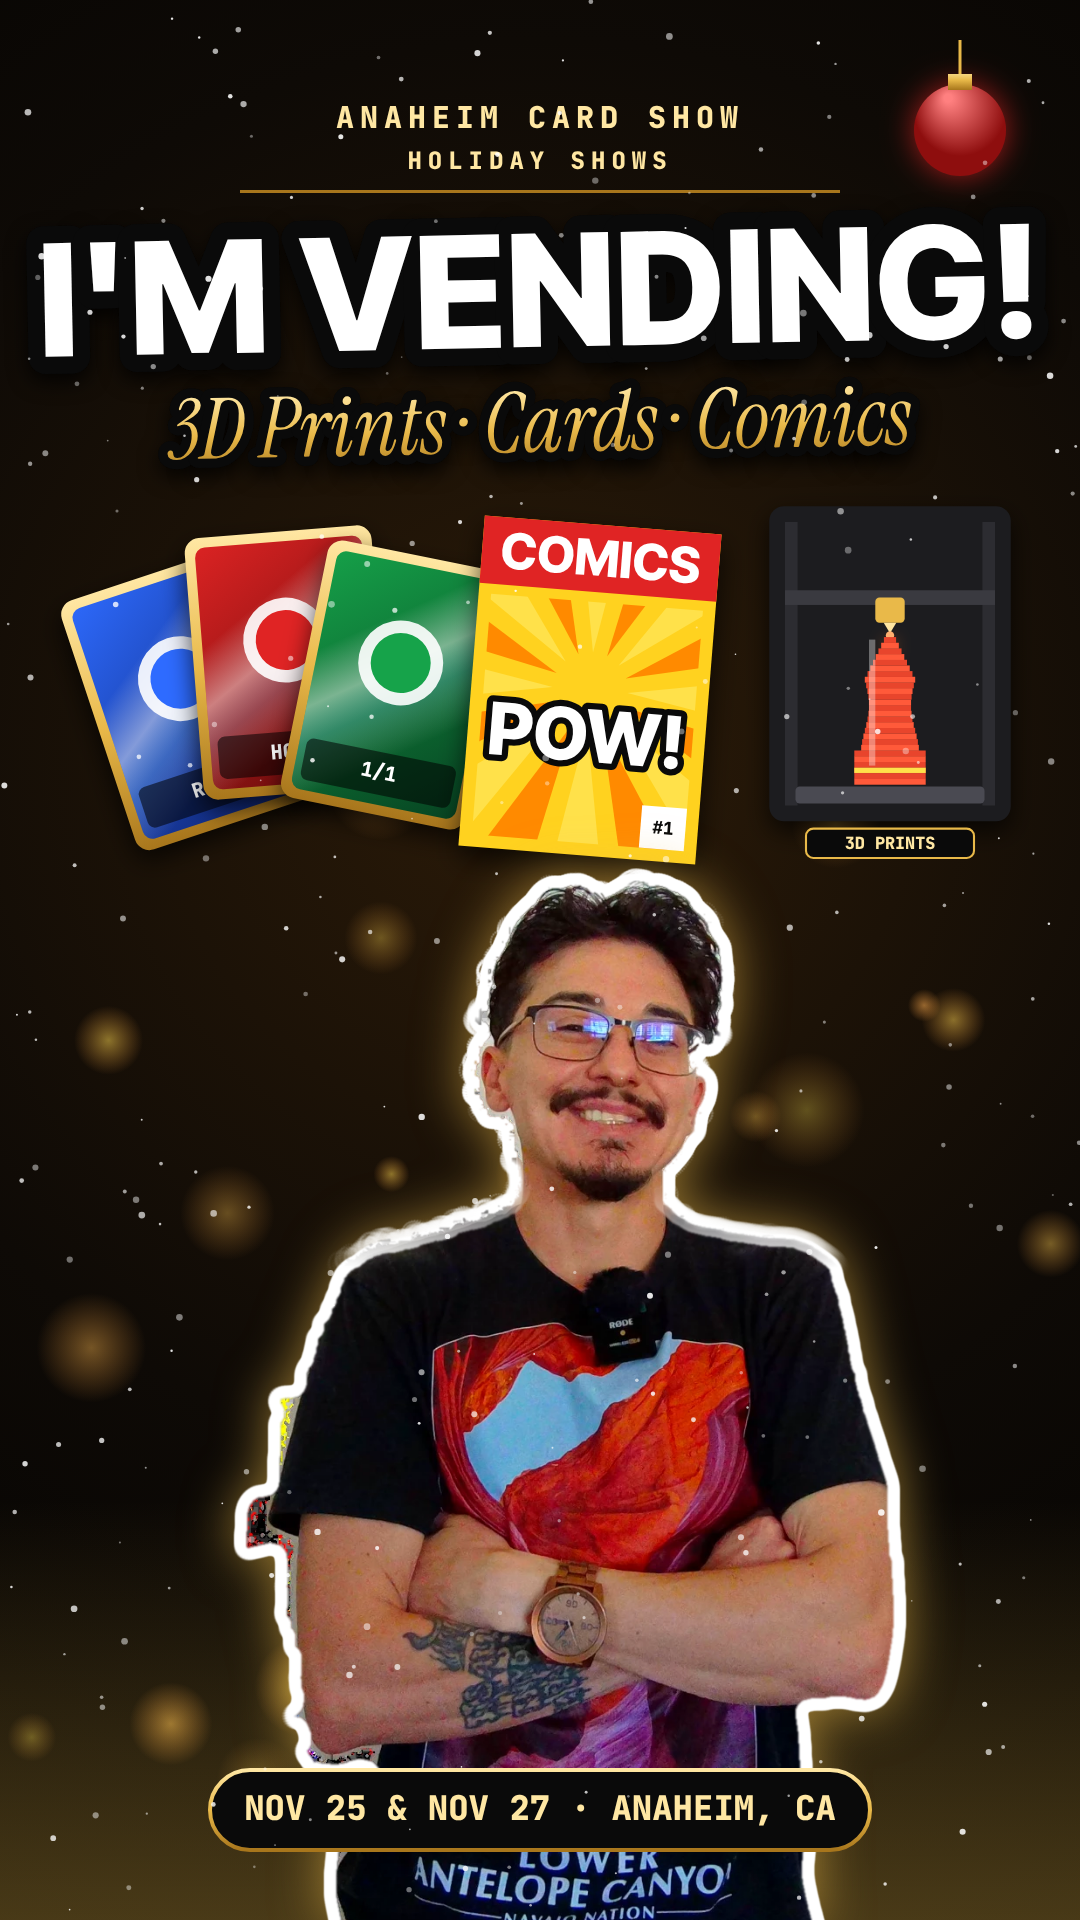
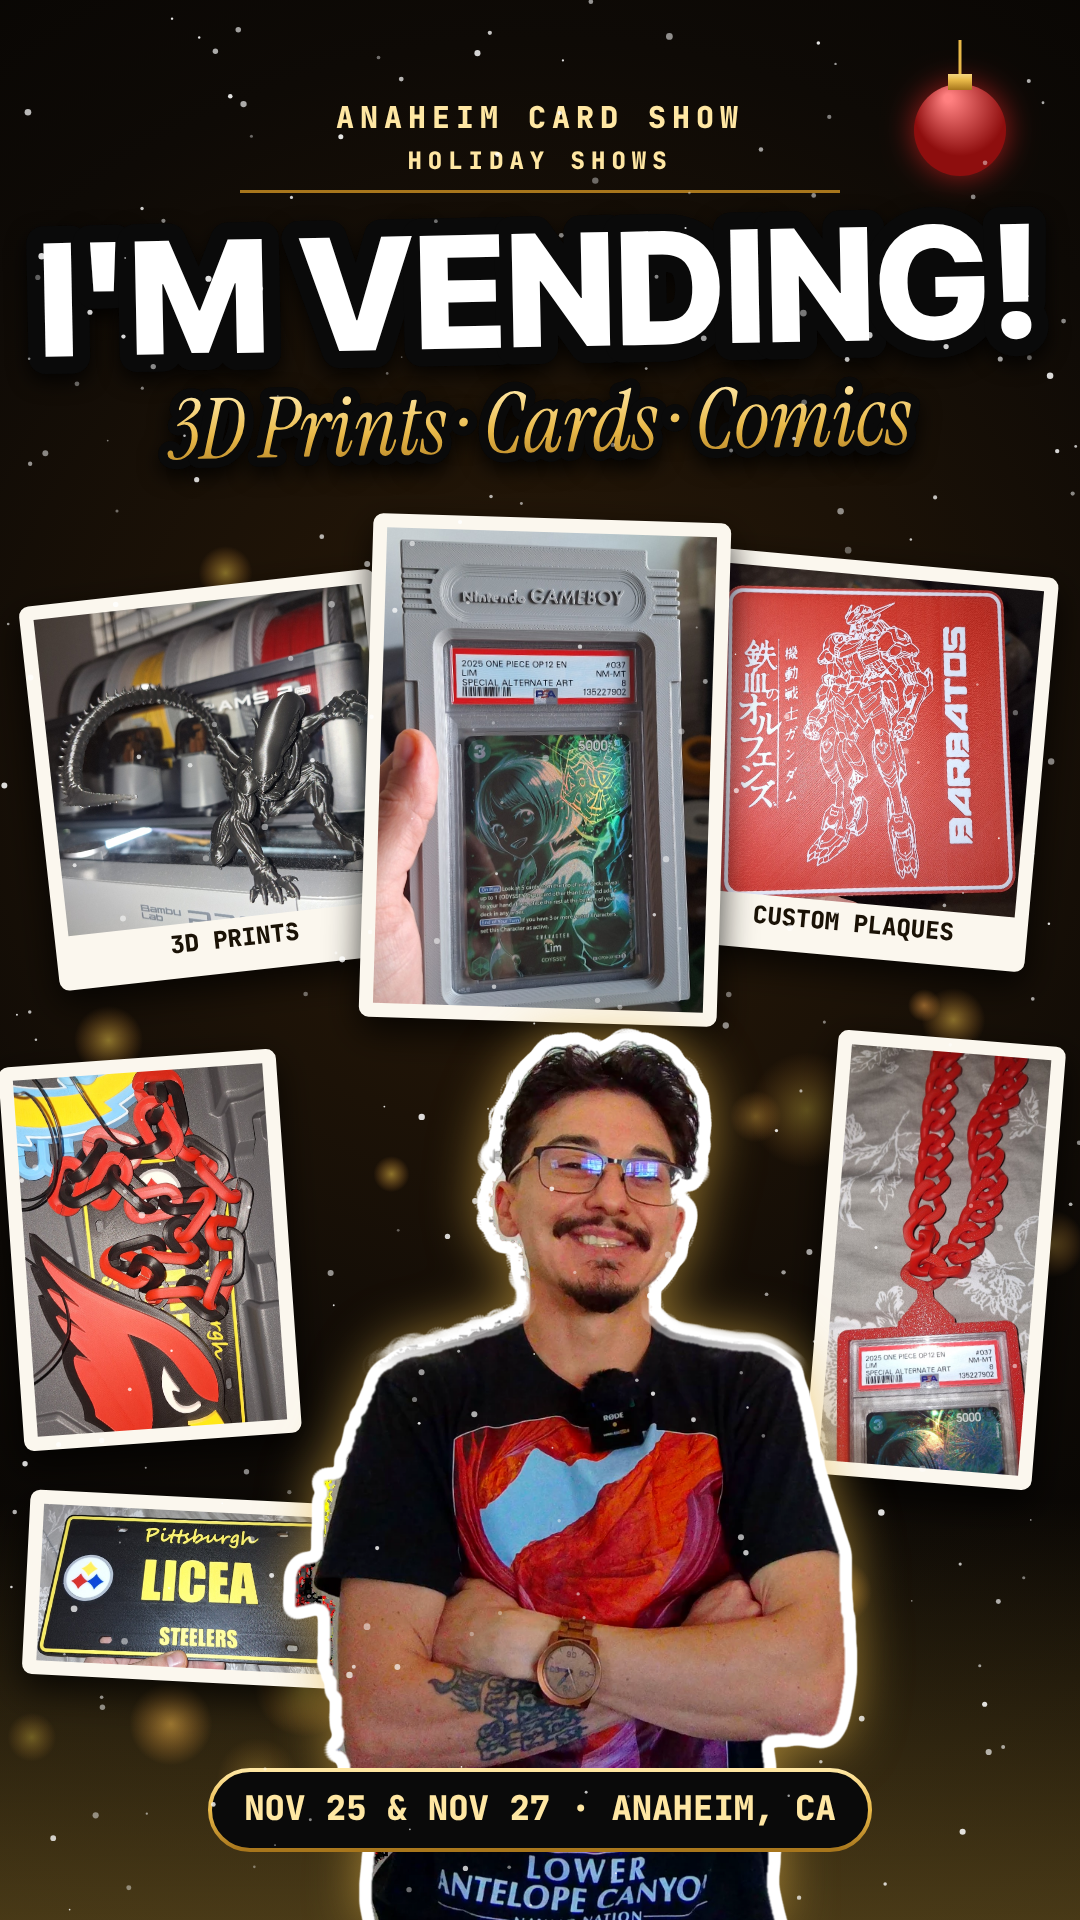
Card show vertical thumbnail: use real product photos
Claude-Session: https://claude.ai/code/session_01NSJvdmHsHoazKiuuGVQfMY

diff --git a/story/cardshow/thumb_vertical.html b/story/cardshow/thumb_vertical.html
@@ -27,37 +27,19 @@ let DATES;
   // gold floor reflection
   const fl = c.createLinearGradient(0, 1500, 0, H); fl.addColorStop(0, 'rgba(233,185,73,0)'); fl.addColorStop(1, 'rgba(233,185,73,0.3)'); c.fillStyle = fl; c.fillRect(0, 1500, W, 420);
 
-  // ---- products (left/middle): fanned trading cards, a comic book, a 3D-printed figure
-  const card = (x, y, rot, top, bot, label) => { c.save(); c.translate(x, y); c.rotate(rot); const w = 150, h = 210;
-    c.shadowColor = 'rgba(0,0,0,0.7)'; c.shadowBlur = 24; c.shadowOffsetY = 10; rr(-w / 2, -h / 2, w, h, 12); c.fillStyle = gold(-h / 2, h / 2); c.fill(); c.shadowColor = 'transparent';
-    rr(-w / 2 + 8, -h / 2 + 8, w - 16, h - 16, 8); const g = c.createLinearGradient(-w / 2, -h / 2, w / 2, h / 2); g.addColorStop(0, top); g.addColorStop(1, bot); c.fillStyle = g; c.fill();
-    // holo sheen
-    const hs = c.createLinearGradient(-w / 2, -h / 2, w / 2, h / 2); hs.addColorStop(0.3, 'rgba(255,255,255,0)'); hs.addColorStop(0.45, 'rgba(255,255,255,0.45)'); hs.addColorStop(0.55, 'rgba(160,220,255,0.25)'); hs.addColorStop(0.7, 'rgba(255,255,255,0)'); c.fillStyle = hs; c.fill();
-    c.fillStyle = 'rgba(255,255,255,0.9)'; c.beginPath(); c.arc(0, -18, 34, 0, TAU); c.fill(); c.fillStyle = top; c.beginPath(); c.arc(0, -18, 24, 0, TAU); c.fill();
-    rr(-w / 2 + 14, h / 2 - 50, w - 28, 34, 6); c.fillStyle = 'rgba(0,0,0,0.55)'; c.fill(); c.font = M(800, 16); c.fillStyle = '#fff'; c.textAlign = 'center'; c.textBaseline = 'middle'; c.fillText(label, 0, h / 2 - 33); c.restore(); };
-  c.save(); c.translate(0, 0); c.scale(1.25, 1.25); card(150, 560, -0.32, '#2E6BFF', '#0B1E66', 'RC ★'); card(230, 530, -0.08, '#E02424', '#5A0808', 'HOLO'); card(317, 548, 0.2, '#16A34A', '#064020', '1/1'); c.restore();
-  // comic book
-  c.save(); c.translate(590, 690); c.scale(1.25, 1.25); c.rotate(0.08); const cw = 190, ch = 265;
-  c.shadowColor = 'rgba(0,0,0,0.7)'; c.shadowBlur = 26; c.shadowOffsetY = 12; c.fillStyle = '#FFD21F'; c.fillRect(-cw / 2, -ch / 2, cw, ch); c.shadowColor = 'transparent';
-  c.fillStyle = RED; c.fillRect(-cw / 2, -ch / 2, cw, 54); c.font = D(40); c.fillStyle = '#fff'; c.textAlign = 'center'; c.textBaseline = 'middle'; c.fillText('COMICS', 0, -ch / 2 + 29);
-  c.save(); c.beginPath(); c.rect(-cw / 2 + 10, -ch / 2 + 62, cw - 20, ch - 72); c.clip(); for (let i = 0; i < 16; i++) { c.save(); c.rotate(i / 16 * TAU); c.fillStyle = i % 2 ? '#FF8A00' : '#FFE14A'; c.beginPath(); c.moveTo(0, 30); c.lineTo(-30, 200); c.lineTo(30, 200); c.fill(); c.restore(); } c.restore();
-  c.font = D(58); c.lineWidth = 10; c.strokeStyle = INK; c.lineJoin = 'round'; c.strokeText('POW!', 0, 40); c.fillStyle = '#fff'; c.fillText('POW!', 0, 40);
-  c.fillStyle = '#fff'; c.fillRect(cw / 2 - 46, ch / 2 - 44, 36, 34); c.font = M(800, 14); c.fillStyle = INK; c.fillText('#1', cw / 2 - 28, ch / 2 - 26); c.restore();
-  // 3D printer mid-print: frame, gantry + nozzle, print bed, a figure half-built with glowing layer lines
-  c.save(); c.translate(890, 690); c.scale(1.05, 1.05);
-  c.shadowColor = 'rgba(0,0,0,0.7)'; c.shadowBlur = 24; c.shadowOffsetY = 10;
-  rr(-115, -175, 230, 300, 14); c.fillStyle = '#1C1C1F'; c.fill(); c.shadowColor = 'transparent';
-  c.fillStyle = '#2C2C31'; c.fillRect(-100, -160, 12, 270); c.fillRect(88, -160, 12, 270);           // uprights
-  c.fillStyle = '#3A3A40'; c.fillRect(-100, -95, 200, 14);                                         // gantry
-  rr(-14, -88, 28, 24, 4); c.fillStyle = '#E9B949'; c.fill(); c.beginPath(); c.moveTo(-6, -64); c.lineTo(6, -64); c.lineTo(0, -54); c.closePath(); c.fillStyle = '#FFE7A3'; c.fill();
-  c.fillStyle = '#FFB070'; c.shadowColor = '#FF7A1A'; c.shadowBlur = 16; c.beginPath(); c.arc(0, -52, 4, 0, TAU); c.fill(); c.shadowBlur = 0; c.shadowColor = 'transparent'; c.shadowOffsetY = 0;   // hot nozzle tip
-  rr(-90, 92, 180, 16, 4); c.fillStyle = '#4A4A52'; c.fill();                                      // bed
-  // the part being printed: a little rocket/figure, built from stacked layers
-  const layers = 26; for (let i = 0; i < layers; i++) { const y = 90 - i * 5.4; const half = i < 6 ? 34 : i < 18 ? 24 + Math.sin(i * 0.35) * 4 : 24 - (i - 18) * 2.6;
-    c.fillStyle = i % 2 ? '#E8452C' : '#FF5A3A'; c.fillRect(-half, y - 5.4, half * 2, 5.6); }
-  c.fillStyle = '#FFE14A'; c.fillRect(-34, 74, 68, 5); c.fillStyle = 'rgba(255,255,255,0.35)'; c.fillRect(-20, -48, 6, 120);
-  rr(-80, 132, 160, 28, 7); c.fillStyle = INK; c.fill(); c.lineWidth = 2; c.strokeStyle = '#E9B949'; c.stroke(); c.font = M(800, 16); c.fillStyle = '#FFE7A3'; c.textAlign = 'center'; c.textBaseline = 'middle'; c.fillText('3D PRINTS', 0, 147);
-  c.restore();
+  // ---- products: Kal's real items as tilted white-framed photo cards
+  const P = {}; for (const n of ['gameboy','alien','barbatos','cardinal','psa','steelers']) P[n] = await img('p_' + n + '.jpg');
+  const photo = (im, x, y, w, rot, tag) => { const h = w * im.height / im.width, f = 14; c.save(); c.translate(x, y); c.rotate(rot);
+    c.shadowColor = 'rgba(0,0,0,0.75)'; c.shadowBlur = 34; c.shadowOffsetY = 14; rr(-w / 2 - f, -h / 2 - f, w + 2 * f, h + 2 * f + (tag ? 40 : 0), 10); c.fillStyle = '#FBF7EE'; c.fill(); c.shadowColor = 'transparent'; c.shadowBlur = 0; c.shadowOffsetY = 0;
+    c.drawImage(im, -w / 2, -h / 2, w, h);
+    if (tag) { c.font = M(800, 24); c.fillStyle = '#1A1206'; c.textAlign = 'center'; c.textBaseline = 'middle'; c.fillText(tag, 0, h / 2 + f + 8); }
+    c.restore(); };
+  photo(P.alien, 215, 760, 330, -0.11, '3D PRINTS');
+  photo(P.barbatos, 870, 740, 320, 0.09, 'CUSTOM PLAQUES');
+  photo(P.cardinal, 150, 1250, 250, -0.07, null);
+  photo(P.psa, 935, 1260, 200, 0.08, null);
+  photo(P.steelers, 200, 1590, 320, 0.05, null);
+  photo(P.gameboy, 545, 770, 330, 0.03, null);
 
   // ---- headline (top-left)
   c.font = M(800, 30); c.fillStyle = GOLD[0]; c.textBaseline = 'middle'; c.textAlign = 'center'; c.letterSpacing = '6px'; c.fillText('ANAHEIM CARD SHOW', W / 2, 120); c.font = M(800, 24); c.fillText('HOLIDAY SHOWS', W / 2, 162); c.letterSpacing = '0px'; c.textAlign = 'left';
@@ -70,7 +52,7 @@ let DATES;
   c.save(); c.translate(960, 110); c.shadowColor = 'rgba(224,36,36,0.7)'; c.shadowBlur = 30; const og = c.createRadialGradient(-12, -12, 4, 0, 0, 46); og.addColorStop(0, '#FF8080'); og.addColorStop(1, '#8E0E0E'); c.beginPath(); c.arc(0, 20, 46, 0, TAU); c.fillStyle = og; c.fill(); c.shadowBlur = 0; c.fillStyle = gold(-40, -20); c.fillRect(-12, -36, 24, 16); c.strokeStyle = '#E9B949'; c.lineWidth = 3; c.beginPath(); c.moveTo(0, -36); c.lineTo(0, -70); c.stroke(); c.restore();
 
   // ---- Kal (right), white sticker outline
-  const ph = 1060, pw = ph * me.width / me.height, px = (W - pw) / 2 + 30, py = H - ph + 20;
+  const ph = 900, pw = ph * me.width / me.height, px = (W - pw) / 2 + 30, py = H - ph + 20;
   const off = document.createElement('canvas'); off.width = W; off.height = H; const o = off.getContext('2d');
   for (let a = 0; a < 28; a++) o.drawImage(me, px + Math.cos(a / 28 * TAU) * 12, py + Math.sin(a / 28 * TAU) * 12, pw, ph);
   o.globalCompositeOperation = 'source-in'; o.fillStyle = '#fff'; o.fillRect(0, 0, W, H);
